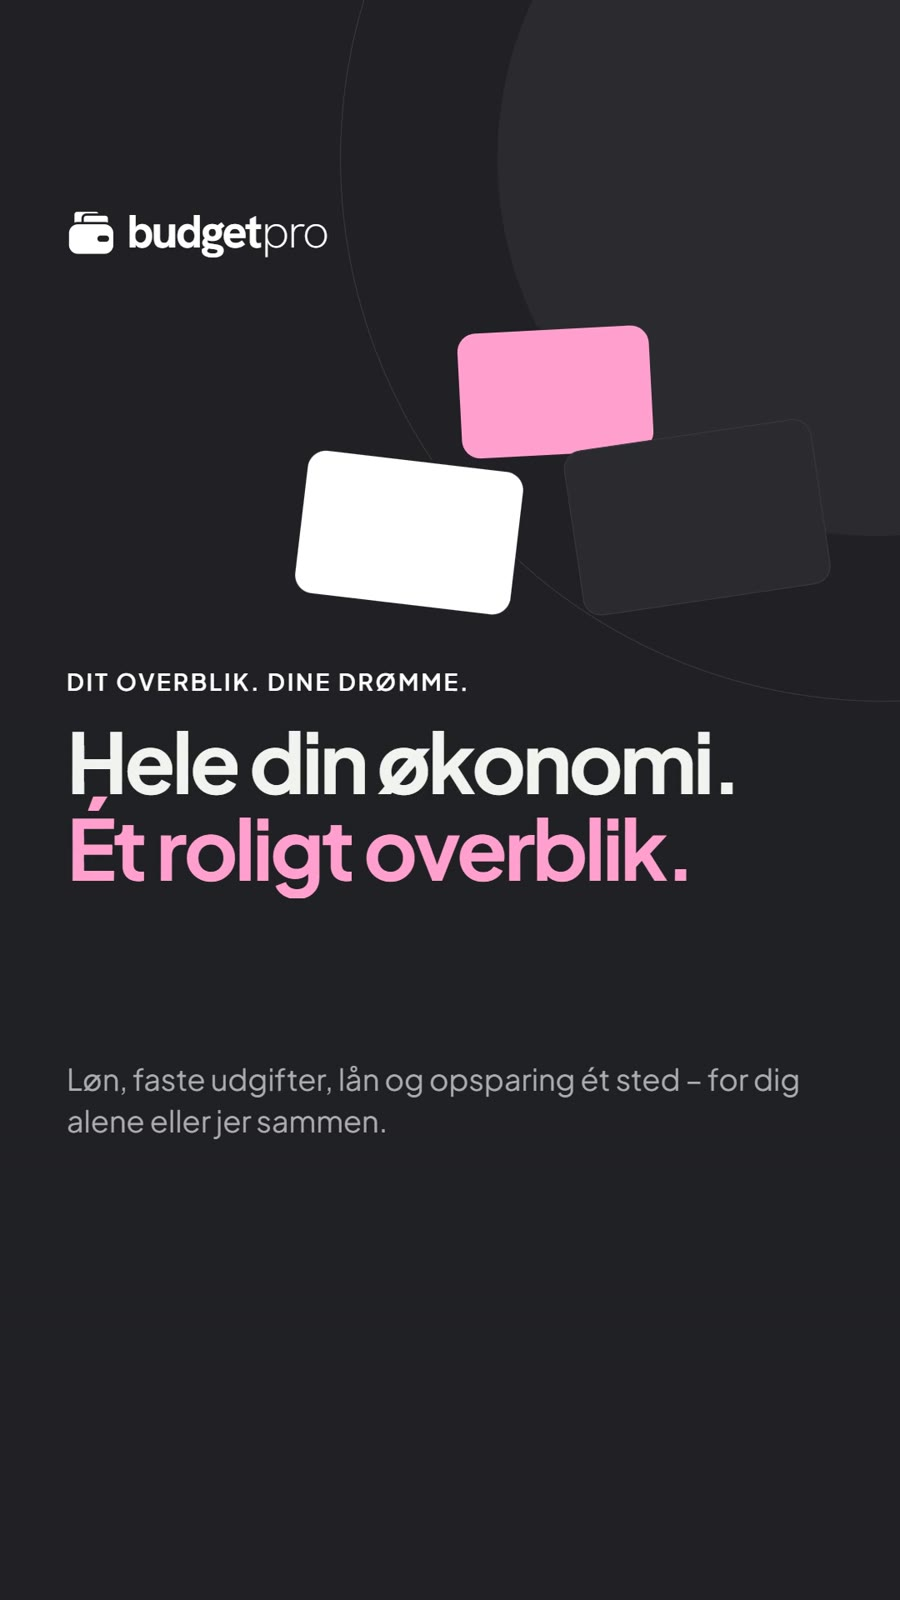
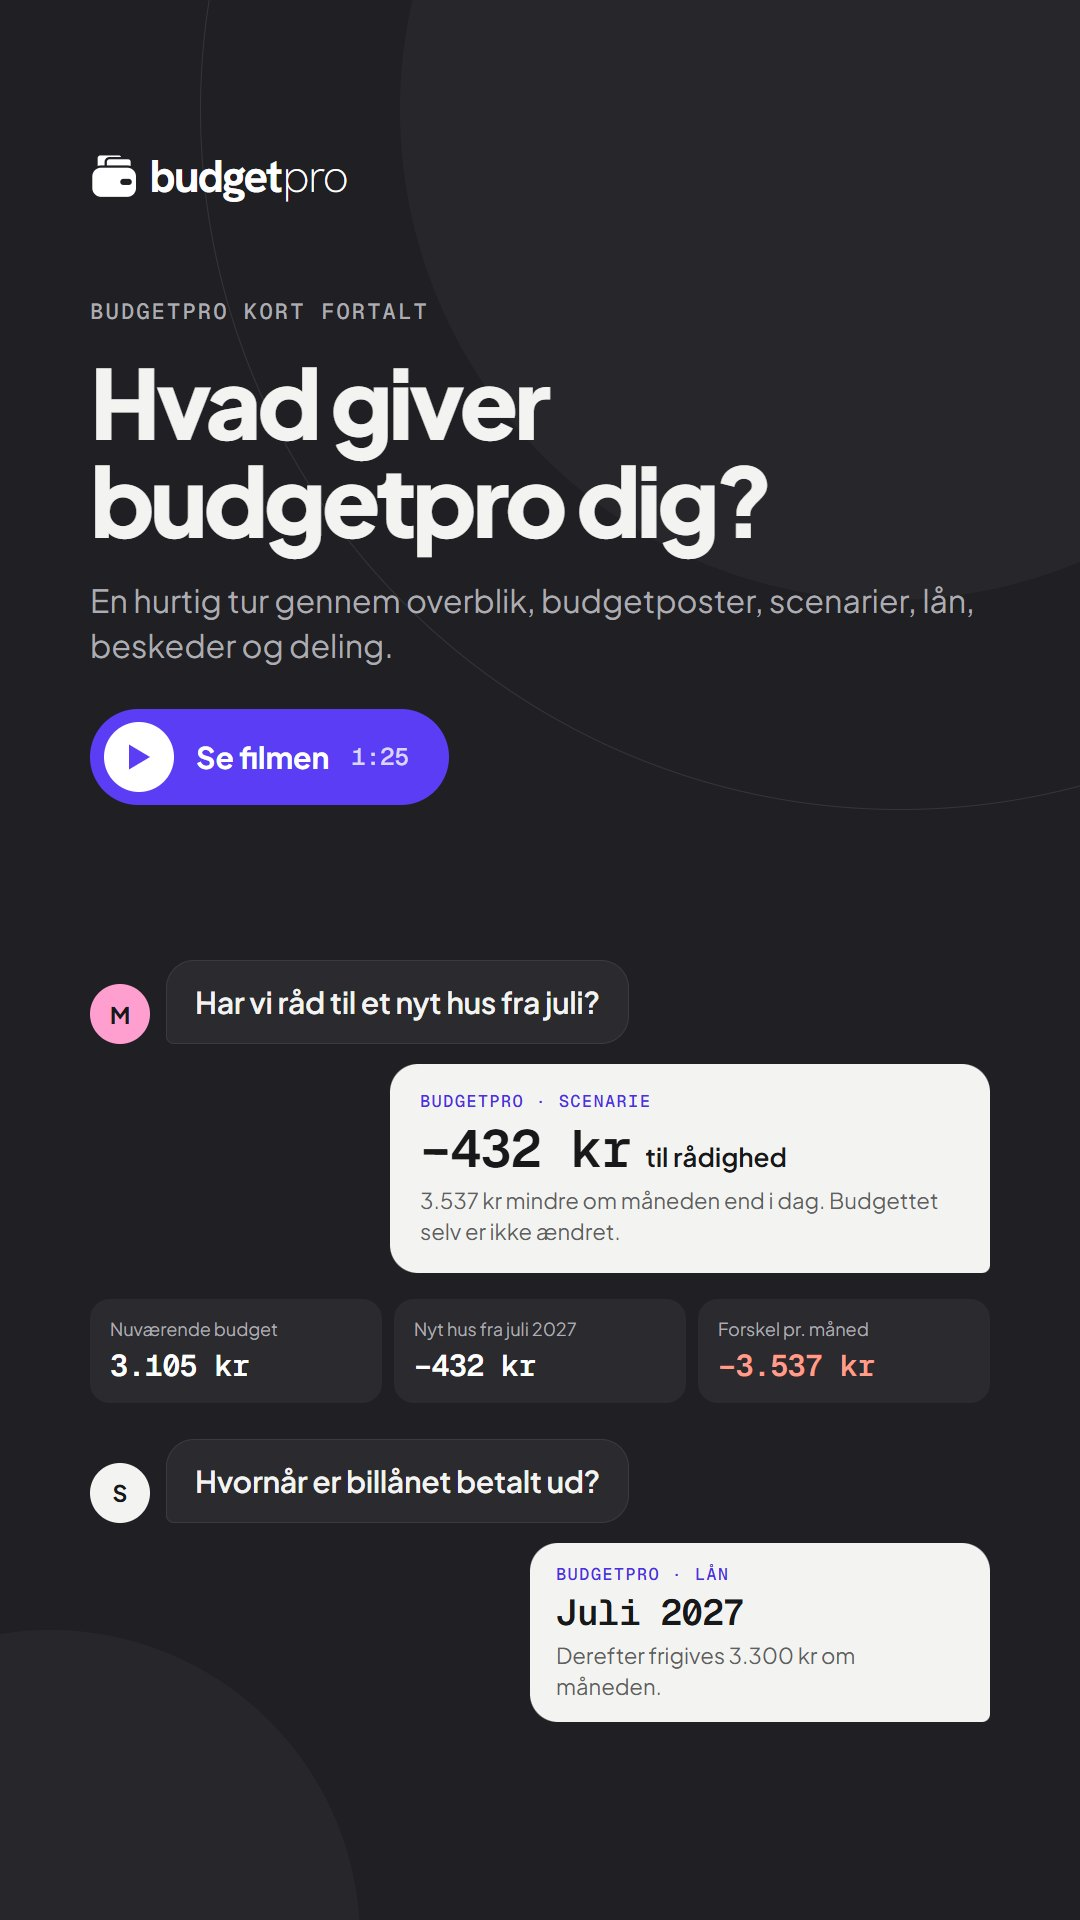
Front page film: a drawn poster, budgetpro kort fortalt with the scenario dialog
The poster no longer repeats the hero's headline. pnpm video privat --poster [--reel] renders video/privat-poster.html. MEDIA_V 13.

diff --git a/video/privat-poster.html b/video/privat-poster.html
@@ -1,0 +1,93 @@
+<!doctype html>
+<!--
+  The poster of the privat film (public/video/budgetpro-privat.jpg and -reel.jpg), drawn instead of a frame from the
+  intro, so it does not repeat the hero's "Hele din økonomi. Ét roligt overblik." (user's wish, Nov 2026): "budgetpro
+  kort fortalt" with the scenario dialog from the front page ("Det, I plejer at spørge hinanden om", the demo family's
+  numbers – keep them in step with components/landing/Front.tsx). A6, no light violet. Render both with
+  `pnpm video privat --poster` (16:9) and `pnpm video privat --poster --reel` (9:16).
+-->
+<html lang="da">
+<head>
+<meta charset="utf-8" />
+<title>budgetpro – plakat</title>
+<link rel="preconnect" href="https://fonts.googleapis.com" />
+<link rel="preconnect" href="https://fonts.gstatic.com" crossorigin />
+<link href="https://fonts.googleapis.com/css2?family=Geist+Mono:wght@500;600&family=Hanken+Grotesk:wght@200;700&family=Plus+Jakarta+Sans:wght@400;500;600;700;800&display=block" rel="stylesheet" />
+<style>
+  * { box-sizing: border-box; margin: 0; padding: 0; }
+  html, body { width: 1920px; height: 1080px; overflow: hidden; background: #202024; }
+  body { position: relative; font-family: "Plus Jakarta Sans", system-ui, sans-serif; color: #f3f3f1; -webkit-font-smoothing: antialiased; }
+  .abs { position: absolute; }
+  .circle { position: absolute; border-radius: 50%; background: #26262b; }
+  .ring { position: absolute; border-radius: 50%; border: 1.5px solid #34343a; }
+
+  .logo { left: 140px; top: 96px; display: inline-flex; align-items: baseline; gap: .24em; font-size: 46px; line-height: 1; color: #fff; }
+  .logo svg { width: 1.05em; height: 1.05em; align-self: flex-end; margin-bottom: -.02em; }
+  .logo b { font: 700 1em/1 "Hanken Grotesk", sans-serif; letter-spacing: -.045em; }
+  .logo i { font: 200 1em/1 "Hanken Grotesk", sans-serif; font-style: normal; letter-spacing: -.035em; margin-left: .03em; }
+
+  .text { left: 140px; top: 300px; width: 800px; }
+  .over { font: 500 22px/1 "Geist Mono", monospace; letter-spacing: .1em; text-transform: uppercase; color: #acacb2; }
+  h1 { margin-top: 30px; font-size: 104px; line-height: 1.02; font-weight: 750; letter-spacing: -0.045em; }
+  .sub { margin-top: 30px; font-size: 32px; line-height: 1.42; color: #acacb2; }
+  .play { margin-top: 52px; display: inline-flex; align-items: center; gap: 22px; height: 96px; padding: 0 40px 0 14px; border-radius: 999px; background: #5b3df5; color: #fff; font-size: 30px; font-weight: 650; }
+  .play span { width: 70px; height: 70px; border-radius: 50%; background: #fff; display: grid; place-items: center; }
+  .play small { font: 500 24px "Geist Mono", monospace; color: rgba(255, 255, 255, .78); }
+
+  .chat { left: 1060px; top: 140px; width: 720px; }
+  .q { display: flex; align-items: flex-end; gap: 16px; }
+  .av { flex: none; width: 60px; height: 60px; border-radius: 50%; display: grid; place-items: center; font-size: 23px; font-weight: 700; }
+  .av.m { background: #ff9fcf; color: #18181b; }
+  .av.s { background: #f3f3f1; color: #18181b; }
+  .q p { padding: 22px 28px; border-radius: 28px 28px 28px 8px; background: #2a2a2f; border: 1px solid #3a3a41; font-size: 30px; font-weight: 600; letter-spacing: -0.01em; }
+  .a { width: 600px; margin: 20px 0 0 auto; padding: 26px 30px; border-radius: 28px 28px 8px 28px; background: #f3f3f1; color: #18181b; }
+  .lab { display: block; margin-bottom: 8px; font: 500 17px "Geist Mono", monospace; text-transform: uppercase; letter-spacing: .08em; color: #4b2fe0; }
+  .a b { font: 600 52px/1.1 "Geist Mono", monospace; letter-spacing: -0.02em; }
+  .a .unit { margin-left: 14px; font-size: 26px; font-weight: 600; color: #18181b; }
+  .a p { margin-top: 8px; font-size: 22px; line-height: 1.4; color: #5e5e63; }
+  .vs { display: grid; grid-template-columns: repeat(3, 1fr); gap: 12px; margin-top: 26px; }
+  .vs div { padding: 18px 20px; border-radius: 20px; background: #2a2a2f; font-size: 18px; color: #acacb2; }
+  .vs b { display: block; margin-top: 6px; font: 600 30px "Geist Mono", monospace; letter-spacing: -0.02em; color: #fff; }
+  .vs .neg b { color: #ff9c8a; }
+  .q2 { margin-top: 44px; }
+  .a.small { width: 460px; padding: 20px 26px; }
+  .a.small b { font-size: 36px; }
+
+  /* Reel (1080×1920): text and the play pill on top, the dialog below – all clear of the player's control bar */
+  [data-format="reel"], [data-format="reel"] body { width: 1080px; height: 1920px; }
+  [data-format="reel"] .logo { left: 90px; top: 150px; }
+  [data-format="reel"] .text { left: 90px; top: 300px; width: 900px; }
+  [data-format="reel"] h1 { font-size: 96px; }
+  [data-format="reel"] .play { margin-top: 40px; }
+  [data-format="reel"] .chat { left: 90px; top: 960px; width: 900px; }
+  [data-format="reel"] .q2 { margin-top: 36px; }
+</style>
+<script>if (location.search.includes("reel")) document.documentElement.dataset.format = "reel";</script>
+</head>
+<body>
+  <div class="circle" style="width:980px;height:980px;right:-300px;top:-380px"></div>
+  <div class="ring" style="width:1400px;height:1400px;right:-520px;top:-590px"></div>
+  <div class="circle" style="width:620px;height:620px;left:-260px;bottom:-330px"></div>
+
+  <div class="abs logo"><svg viewBox="0.5 1.5 63 60" aria-hidden="true"><rect x="9" y="3" width="34" height="22" rx="5" fill="#fff" stroke="#202024" stroke-width="3"/><rect x="21" y="8" width="34" height="22" rx="5" fill="#fff" stroke="#202024" stroke-width="3"/><rect x="2" y="19" width="60" height="41" rx="13" fill="#fff" stroke="#202024" stroke-width="3"/><rect x="40" y="35" width="15" height="8" rx="4" fill="#202024"/></svg><span><b>budget</b><i>pro</i></span></div>
+
+  <div class="abs text">
+    <p class="over">budgetpro kort fortalt</p>
+    <h1>Hvad giver budgetpro dig?</h1>
+    <p class="sub">En hurtig tur gennem overblik, budgetposter, scenarier, lån, beskeder og deling.</p>
+    <div class="play"><span><svg width="26" height="30" viewBox="0 0 26 30" aria-hidden="true"><path d="M3 2.5l21 12.5-21 12.5z" fill="#5b3df5"/></svg></span>Se filmen <small>1:25</small></div>
+  </div>
+
+  <div class="abs chat">
+    <div class="q"><span class="av m">M</span><p>Har vi råd til et nyt hus fra juli?</p></div>
+    <div class="a"><span class="lab">budgetpro · scenarie</span><b>−432 kr</b><span class="unit">til rådighed</span><p>3.537 kr mindre om måneden end i dag. Budgettet selv er ikke ændret.</p></div>
+    <div class="vs">
+      <div>Nuværende budget<b>3.105 kr</b></div>
+      <div>Nyt hus fra juli 2027<b>−432 kr</b></div>
+      <div class="neg">Forskel pr. måned<b>−3.537 kr</b></div>
+    </div>
+    <div class="q q2"><span class="av s">S</span><p>Hvornår er billånet betalt ud?</p></div>
+    <div class="a small"><span class="lab">budgetpro · lån</span><b>Juli 2027</b><p>Derefter frigives 3.300 kr om måneden.</p></div>
+  </div>
+</body>
+</html>

diff --git a/lib/media-version.ts b/lib/media-version.ts
@@ -4,7 +4,7 @@
  * keep showing the old ones; the pages add `?v=<MEDIA_V>` to their URLs. Raise it after remaking them.
  * next.config.ts allows exactly this query on those paths (images.localPatterns).
  */
-export const MEDIA_V = "12";
+export const MEDIA_V = "13";
 
 /** A public path with the media version appended. */
 export const media = (path: string) => `${path}?v=${MEDIA_V}`;

diff --git a/CLAUDE.md b/CLAUDE.md
@@ -33,7 +33,7 @@ Language: code and comments in English; UI text in Danish (du-form, calm, no exc
 
 ## Rules
 
-- Explainer films: the front page, Erhverv and Skole each show their film right under the hero (`components/Film.tsx`: `public/video/budgetpro-<name>.mp4` with a poster `.jpg`, a frame from the intro; with a background track, loads on play). Each film also exists upright as a reel, `budgetpro-<name>-reel.mp4` + `-reel.jpg` (1080×1920, 9:16, also for social media); `Film` shows the reel below 768 px and the 16:9 film above. `.mp4` is in the file list of `lib/site-host.ts` / `lib/skole-host.ts`, so the subdomains serve it. After re-rendering a film, remake its poster: `ffmpeg -ss 3.5 -i public/video/budgetpro-<name>.mp4 -frames:v 1 -vf scale=1600:-1 -q:v 3 public/video/budgetpro-<name>.jpg` (reel: `-reel.mp4` → `-reel.jpg` with `scale=900:-1`).
+- Explainer films: the front page, Erhverv and Skole each show their film right under the hero (`components/Film.tsx`: `public/video/budgetpro-<name>.mp4` with a poster `.jpg`, a frame from the intro; with a background track, loads on play). Each film also exists upright as a reel, `budgetpro-<name>-reel.mp4` + `-reel.jpg` (1080×1920, 9:16, also for social media); `Film` shows the reel below 768 px and the 16:9 film above. `.mp4` is in the file list of `lib/site-host.ts` / `lib/skole-host.ts`, so the subdomains serve it. The privat film has a drawn poster instead (`video/privat-poster.html`: "budgetpro kort fortalt – Hvad giver budgetpro dig?" with the scenario dialog, so it does not repeat the hero – user's wish; `pnpm video privat --poster [--reel]`). After re-rendering another film, remake its poster: `ffmpeg -ss 3.5 -i public/video/budgetpro-<name>.mp4 -frames:v 1 -vf scale=1600:-1 -q:v 3 public/video/budgetpro-<name>.jpg` (reel: `-reel.mp4` → `-reel.jpg` with `scale=900:-1`).
 - Landing design source of truth: the design "budgetpro – Mynte og is komplet" (Nov 2026, summed up in `docs/design/MYNTE.md` under "Komplet"; it also restyled the app) for the private front page and Erhverv (Skole keeps its own design), + the copy rules in `docs/design/HANDOFF.md`; the landing palette is the `.page` block in `components/landing/landing.module.css`. Header and hero are one warm paper-white card (`--v-hero` `#F2F0EA` – user's wish; `HeroShapes`, the header is transparent and the hero is pulled up under it); the hero, Rådighed and "Hvem betaler hvad" show small drawn cards with the demo family's numbers (`components/landing/AppCard.tsx`, keep them in step with the demo), the feature tour keeps real screenshots. Checkmarks keep their earlier look (user's wish).
 - Films (Oct 2026): `video/erhverv.html` (1:40), `video/privat.html` (1:25, user's choice Nov 2026: the main features one by one – Kom godt i gang (the start step, picking "Tom skabelon"), Nemt overblik, Budgetposterne (a post typed into the "Ny post" editor), Scenarier as a dialog after the front page's "Det, I plejer at spørge hinanden om", Lån, Notifikationer, Deling) and `video/skole.html` (1:36: a class in two minutes, then the four lessons with their features, then following the class; no code printing) and `video/kom-i-gang.html` (103 s how-to: the guide "Start nyt budget" from its start step – empty, statements or budgets, the film picks empty –, then a draft filled from statements and an Excel budget and "Sæt som primært budget", and last a scenario, "Hvad hvis…?" – made from the budget menu, one post changed, and the app's comparison with the current budget, drawn after `renderScn()` and `compareHtml()`; its dialogs are drawn in the film with the app's own texts and labels, so keep them in step with `renderWiz()`, `openDft()` and `renderDImp()`; its dialog opens once by itself on a first visit without a budget – a short text, the visitor starts the film or presses Spring over – and under Kom i gang in the profile menu, `openFilm()`), text only, privat, erhverv and kom-i-gang in "A6" (`data-theme="a6"`), skole in "Is og solgul" (`<html data-theme="skole">` swaps the accent variables in `film.css`; `data-sticker="Skole"` on a `[data-logo]` adds the Skole sticker). Shared runtime and styles in `video/film.js` / `video/film.css` (statement import scene, feature montage, cursor, and the motion graphics: `[data-logo]`/`[data-icon]` filled with the real logo, `buildLogo` – the cards drop into the pocket, `words`/`caption` – headlines word by word with a lime `.hl` underline, `curtain` – the dark intro lifts and the end card drops with a lime band, `darkBg` – drifting cards on the dark cards, `orb` – a lime circle moving between scenes, `enter` – 3D entrance of screenshots); each frame comes from `seek(t)`, so `pnpm video <erhverv|privat|skole>` renders an exact MP4 to `public/video/` (needs ffmpeg + Chrome; `--still=<s>` gives one PNG; `--reel` renders the 1080×1920 reel). The reel is the same page opened with `?reel` (`<html data-format="reel">`, `F.W`/`F.H` in film.js): caption on top, visual below, key content between y ≈ 220 and 1640 (clear of the app bars on reels); the shared intro/end/caption layout is the reel block at the end of `film.css`, each film places its own visuals in its `[data-format="reel"]` rules – when a film gets a new visual, place it there too and render both formats. The three page films use the solo layout (`F.film({ solo: true })`, user's wish, Oct 2026): each scene first shows its caption alone in the middle (`F.title`, reading time from the word count in `F.timeline`), then its visual alone, centred by film.js (`.vis`), with the overline as a small tag on top – never text beside a visual at the same time. Every render gets a calm, happy background track from Mixkit (`MUSIC` in `scripts/video.mjs`, track id per film; Mixkit Stock Music Free License: free in commercial videos without credit, but the MP3 itself must not be handed out, so it is fetched into `node_modules/.cache/` and never committed), faded and levelled to -18 LUFS. The user found self-made synth music unprofessional – use real recorded tracks. The privat and erhverv films show the guide's start step (its first choice is "Tom skabelon", in the app too) (`F.startScene`: empty, from statements, from existing budgets – same texts as `renderWiz()`) before the statement import. Open a film's HTML in Chrome to preview it on a loop (`?t=12` starts at second 12). Keep their texts in step with the pages and the app; they use the landing/skole screenshots, so re-render after `pnpm shots`.
 - Landing motion (the "Motion" block at the end of `landing.module.css`, all off with reduced motion; the A6 front page marks its blocks with `data-reveal`/`data-reveal-group`/`data-reveal="tilt"` and its headlines wipe up via the block at the end of `front.module.css`; `ScrollReveal` runs only the first time a page is scrolled in a browser session – user's wish, key `bp:reveal:<path>` in sessionStorage): the hero title wipes up (its accent part in dyb mynte), circles on the dark bands breathe, `ScrollReveal` headlines wipe up out of a mask, `data-reveal="tilt"` (screenshots, film, price card) tilts up into place, and the photo banner pans slower than the page (scroll-driven CSS where supported). The final call to action (`FinalCta`) is a low warm paper band (like the hero) with calm shapes – smørgul only as a small circle, never the band –, and has no motion at all (user's wishes, Oct–Nov 2026). Never put the clip on an element that is itself observed by `ScrollReveal` – the IntersectionObserver then never sees it.
